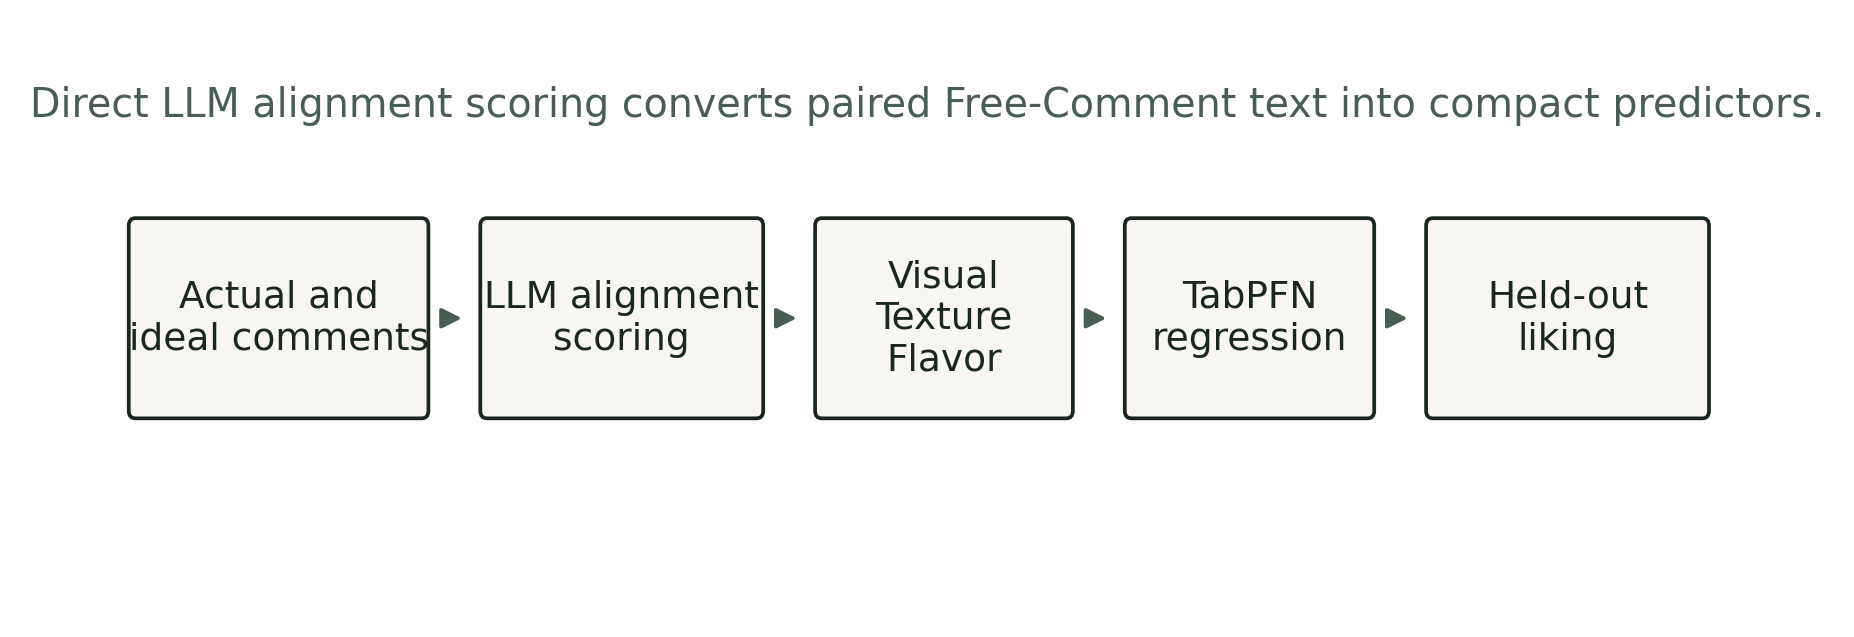
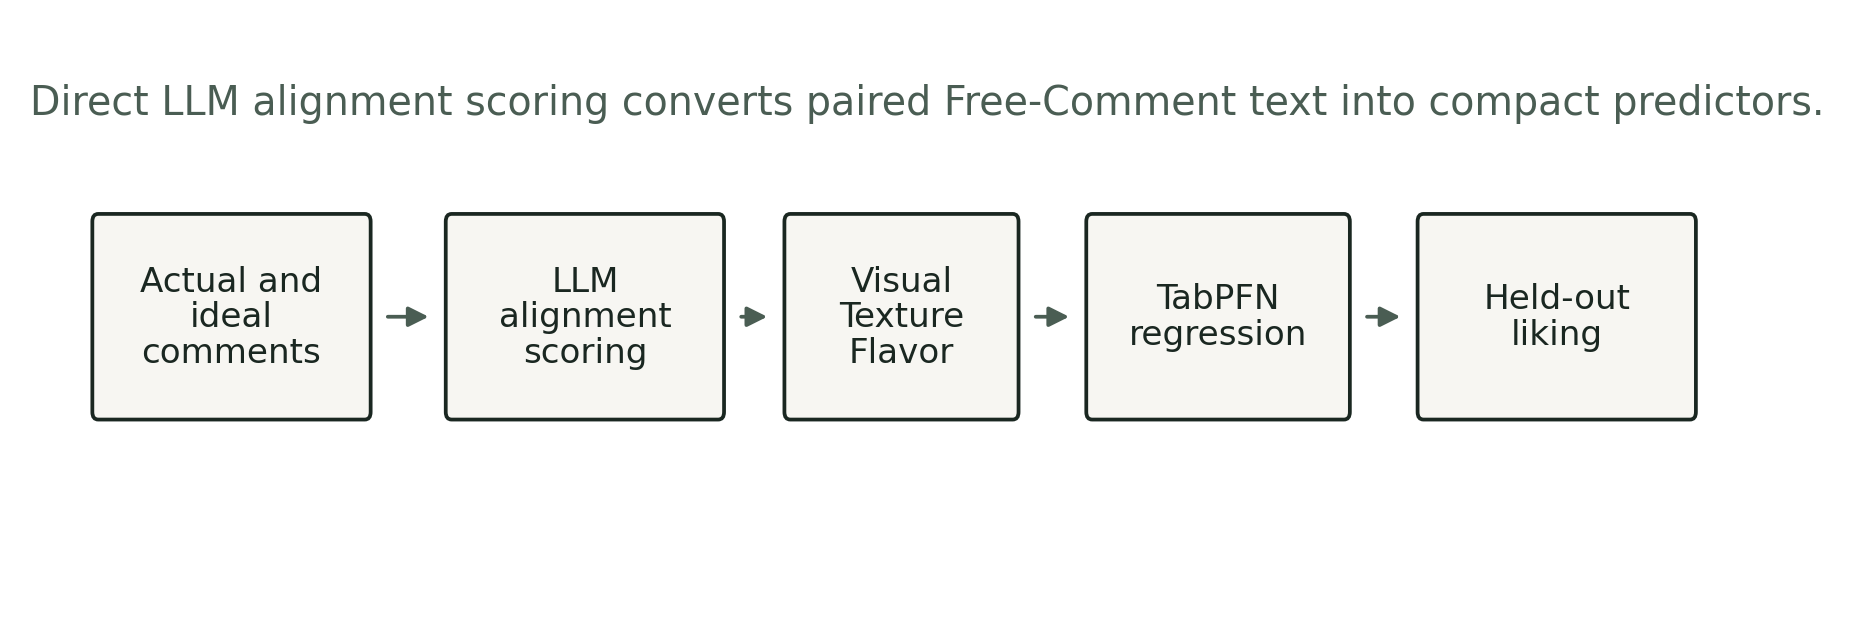
Fix workflow figure label layout

Changed region(s): [[0.0307, 0.3344, 0.9223, 0.6992], [0.0307, 0.3344, 0.0922, 0.3648]]

diff --git a/paper/tools/generate_figures.py b/paper/tools/generate_figures.py
@@ -98,17 +98,17 @@ def panel_label(ax, label: str) -> None:
 
 
 def draw_workflow() -> None:
-    fig, ax = plt.subplots(figsize=(7.2, 2.5))
+    fig, ax = plt.subplots(figsize=(7.6, 2.45))
     ax.axis("off")
-    ax.set_xlim(0, 10)
+    ax.set_xlim(0, 12)
     ax.set_ylim(0, 3)
 
     boxes = [
-        (0.25, 1.0, 1.75, 1.0, "Actual and\nideal comments"),
-        (2.35, 1.0, 1.65, 1.0, "LLM alignment\nscoring"),
-        (4.35, 1.0, 1.5, 1.0, "Visual\nTexture\nFlavor"),
-        (6.2, 1.0, 1.45, 1.0, "TabPFN\nregression"),
-        (8.0, 1.0, 1.65, 1.0, "Held-out\nliking"),
+        (0.35, 0.95, 1.85, 1.05, "Actual and\nideal\ncomments"),
+        (2.75, 0.95, 1.85, 1.05, "LLM\nalignment\nscoring"),
+        (5.05, 0.95, 1.55, 1.05, "Visual\nTexture\nFlavor"),
+        (7.1, 0.95, 1.75, 1.05, "TabPFN\nregression"),
+        (9.35, 0.95, 1.85, 1.05, "Held-out\nliking"),
     ]
     for x, y, w, h, label in boxes:
         box = FancyBboxPatch(
@@ -121,7 +121,16 @@ def draw_workflow() -> None:
             linewidth=0.9,
         )
         ax.add_patch(box)
-        ax.text(x + w / 2, y + h / 2, label, ha="center", va="center", fontsize=9, color=INK)
+        ax.text(
+            x + w / 2,
+            y + h / 2,
+            label,
+            ha="center",
+            va="center",
+            fontsize=8.2,
+            linespacing=1.1,
+            color=INK,
+        )
 
     for i in range(len(boxes) - 1):
         x1 = boxes[i][0] + boxes[i][2]
@@ -139,7 +148,7 @@ def draw_workflow() -> None:
         )
 
     ax.text(
-        5,
+        6,
         2.55,
         "Direct LLM alignment scoring converts paired Free-Comment text into compact predictors.",
         ha="center",